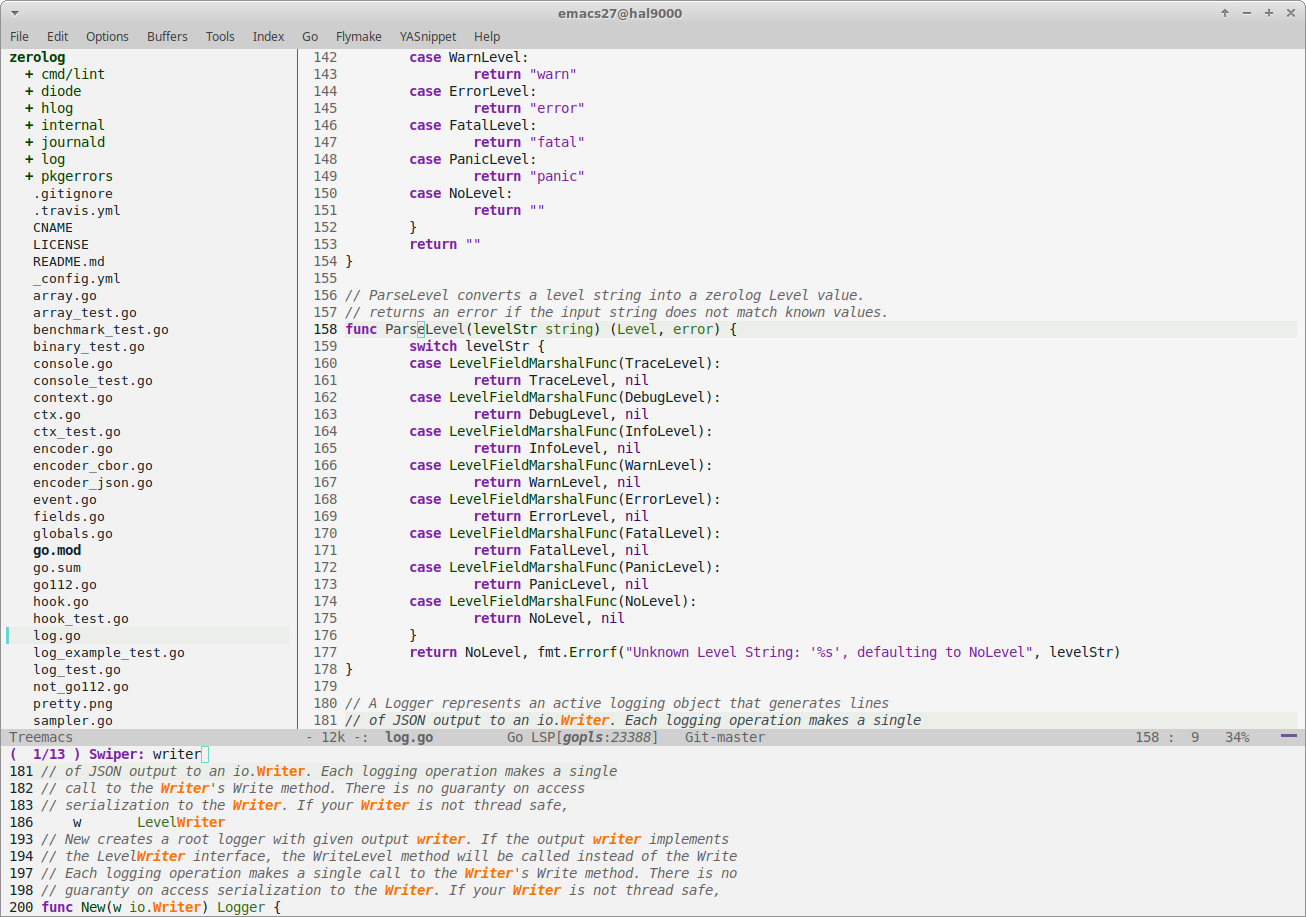
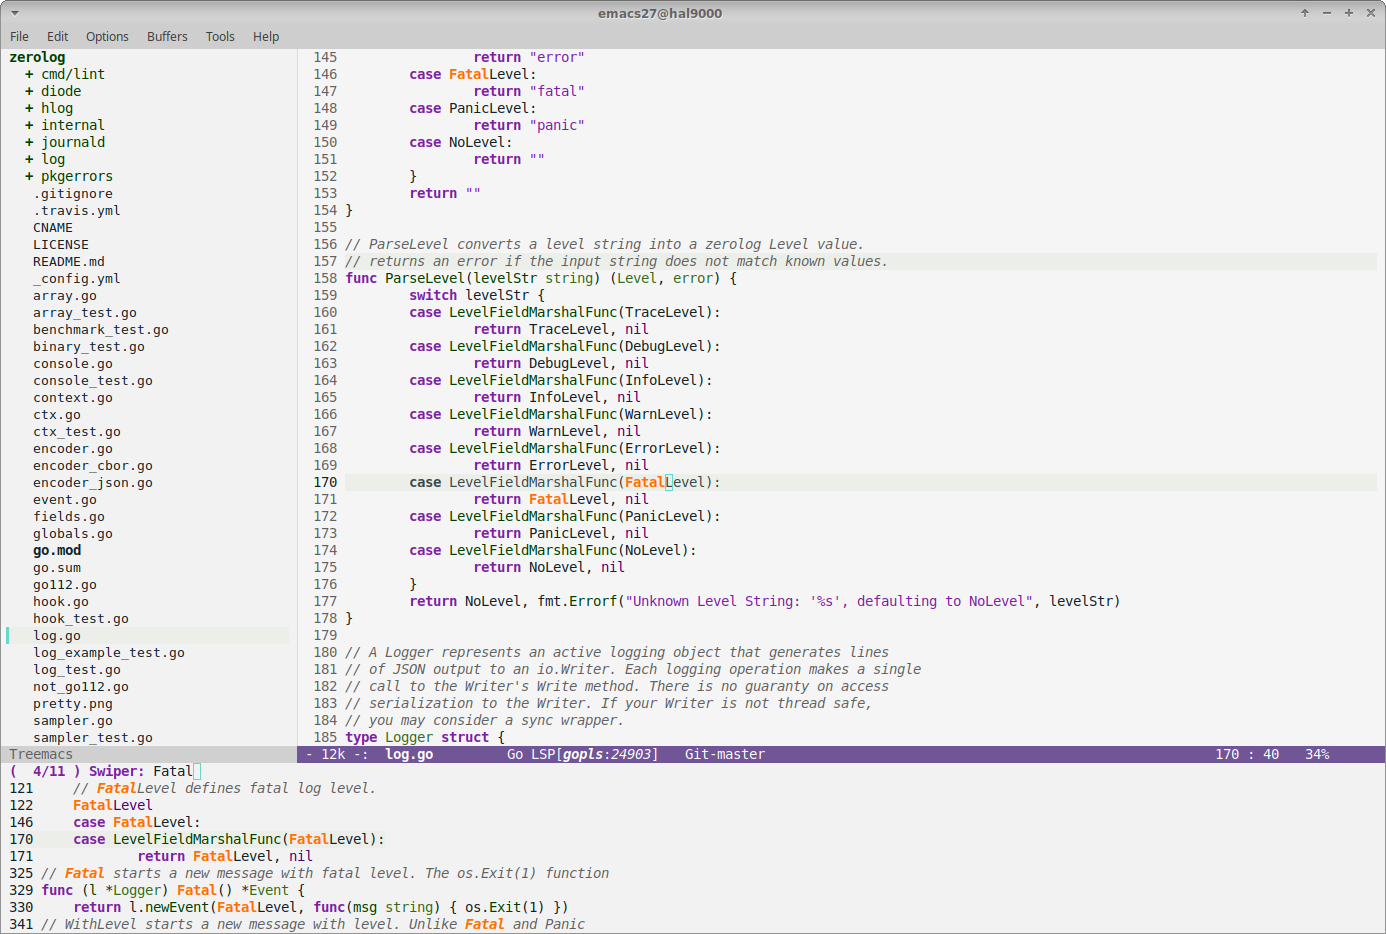
make vertical border color customizable

Changed region(s): [[0.0, 0.0, 1.0, 1.0], [0.7657, 0.6412, 0.7963, 0.6718]]

diff --git a/README.md b/README.md
@@ -52,6 +52,8 @@ elements:
     - `discrete`: for text that should be less pronounced (code comments, line
       numbers).
     - `cursor`: the color of the cursor.
+    - `vertical-border`: the color of the vertical line that separates windows
+      in a frame.
     - `modeline-active-fg`: foreground color to use for an active buffer
       modeline.
     - `modeline-active-bg`: background color to use for on an active buffer
@@ -83,6 +85,7 @@ The following are the full list of colors defined in the default
  | `warning`              | ![#ff9800](https://placehold.it/15/ff9800/000000?text=+) `#ff9800` |
  | `discrete`             | ![#777777](https://placehold.it/15/777777/000000?text=+) `#777777` |
  | `cursor`               | ![#64d8cb](https://placehold.it/15/64d8cb/000000?text=+) `#64d8cb` |
+ | `vertical-border`      | ![#012830](https://placehold.it/15/012830/000000?text=+) `#012830` |
  | `modeline-active-fg`   | ![#ffffff](https://placehold.it/15/ffffff/000000?text=+) `#ffffff` |
  | `modeline-active-fg`   | ![#005662](https://placehold.it/15/005662/000000?text=+) `#005662` |
  | `modeline-inactive-fg` | ![#777777](https://placehold.it/15/777777/000000?text=+) `#777777` |
@@ -144,6 +147,7 @@ A bright mode:
           ("warning"               . "#ff6f00")
           ("discrete"              . "#616161")
           ("cursor"                . "#64d8cb")
+          ("vertical-border"       . "#dddddd")
           ("modeline-active-bg"    . "#705697")
           ("modeline-active-fg"    . "#ffffff")
           ("modeline-inactive-bg"  . "#d0d0d0")
